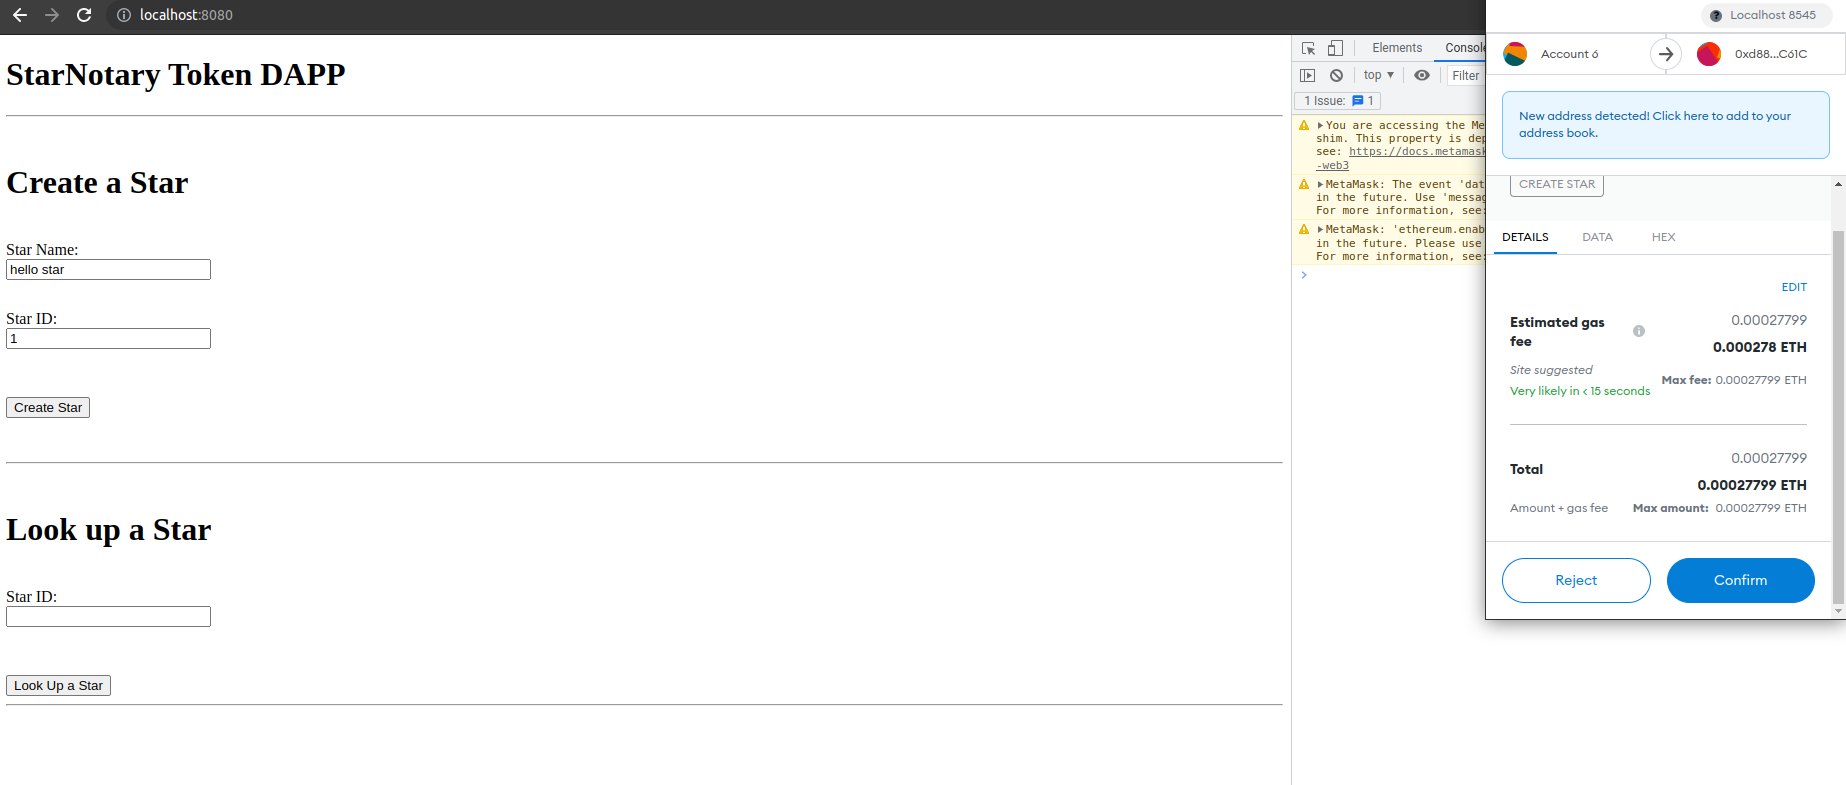
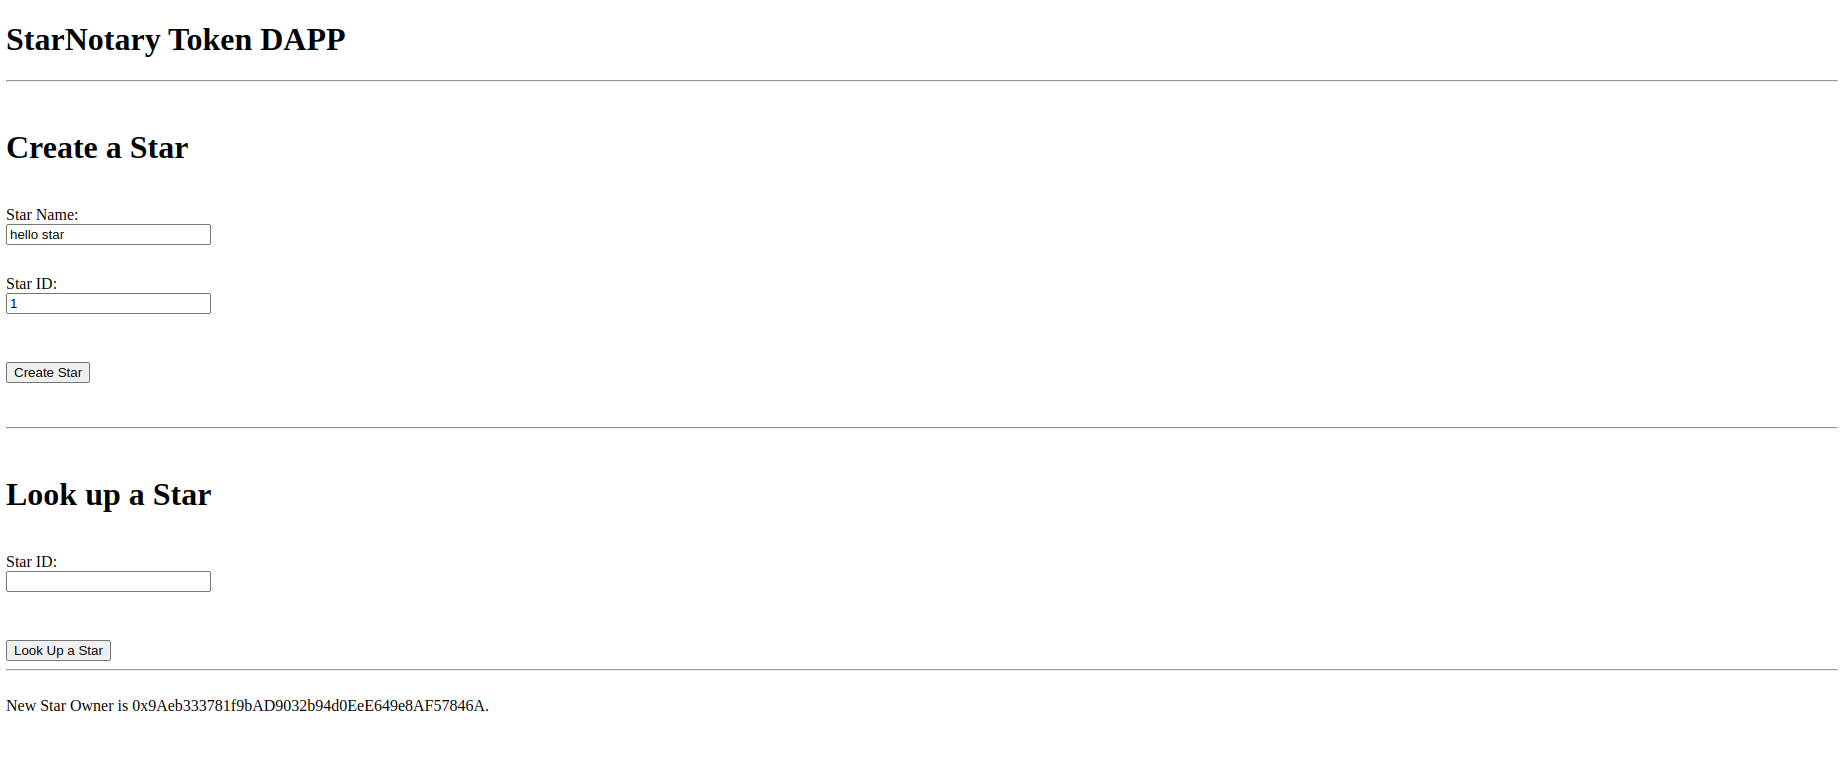
doc: Add further info to the README

diff --git a/README.md b/README.md
@@ -1,10 +1,10 @@
-# Smart Contracts, Tokens and Dapps 
+# Smart Contract with Star NFTs
 
 This repository is my solution to the second project of the Udacity "Blockchain Developer" Nanodegree. Below, you find some more information as well as some helpful screenshots.
 
 ## What problem does this application solve?
-
-
+This application is a simple frontend to interact with a smart contract that stores and manages non-fungible star tokens. In the web app, you can create and look up stars, and the contract has some more functionality like buying or exchanging stars.
+The contract is deployed on the Rinkeby network with address [0x1c617a8b8d88970ede710395ace9d8421f75e434](https://rinkeby.etherscan.io/address/0x1c617a8b8d88970ede710395ace9d8421f75e434). Name of the token: `CoolStars`, token symbol: `CST`. (Refer to `contracts/StarNotary.sol`)
 
 ## Dependencies
 
@@ -24,7 +24,11 @@ Within `package.json`:
 - "ethereumjs-tx": "^2.1.2"
 
 ## Understanding the code
-
+- `contracts/StarNotary.sol`: the smart contract for our star blockchain. It inherits from `node_modules/@openzeppelin/token/ERC721/ERC721.sol`
+- `tests/TestStarNotary.js`: the test cases for StarNotary
+- `migrations/2_deploy_contracts`: the settings to deploy StarNotary
+- `truffle-config.js`: the truffle configuration, including development and rinkeby network configuration. Attention: for the project to work on rinkeby, you need to store your own rinkeby account mnemonic in a file named `.secret`, since I included mine in `.gitignore` for data protection reasons.
+- `app/src/index.js` and `app/src/index.html`: the code for the frontend.
 
 
 ## Run the application
@@ -52,11 +56,12 @@ cd app
 npm run dev
 ```
 
-## Screenshots and links showing app functionality
+## Screenshots showing app functionality
 
 1. The frontend: 
 - Creating a star
     ![Picture of the frontend when creating a star](pic/frontendCreate.png)
+(This is a screenshot after confirming, in order to see the owner correctly displayed in the status field.)
 
 - Confirming in MetaMask
     ![Picture of the frontend including the MetaMask transaction confirmation](pic/frontendConfirm.png)
@@ -64,6 +69,5 @@ npm run dev
 - Looking up the star
     ![Picture of the frontend when looking up a star](pic/frontendLookup.png)
 
-2. The contract on [Etherscan](https://rinkeby.etherscan.io/address/0x1c617a8b8d88970ede710395ace9d8421f75e434). Name of the token: `CoolStars`, token symbol: `CST`. (Refer to `contracts/StarNotary.sol`)
 
 
